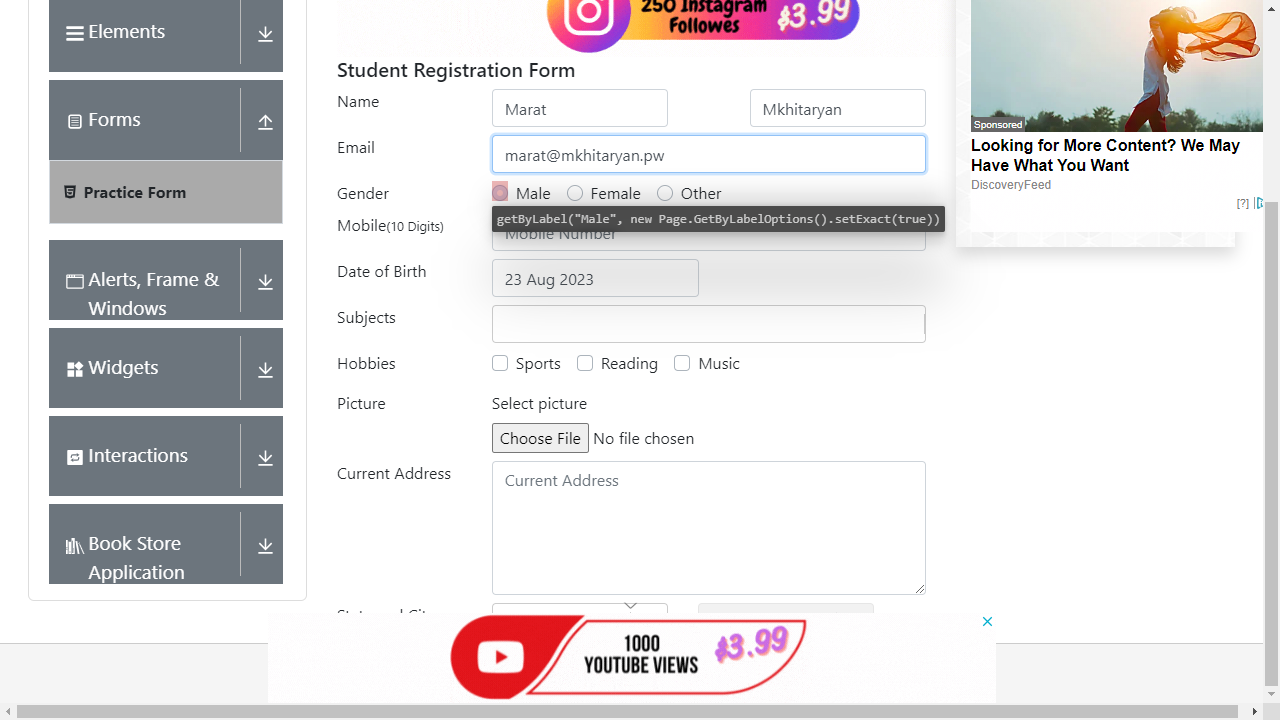
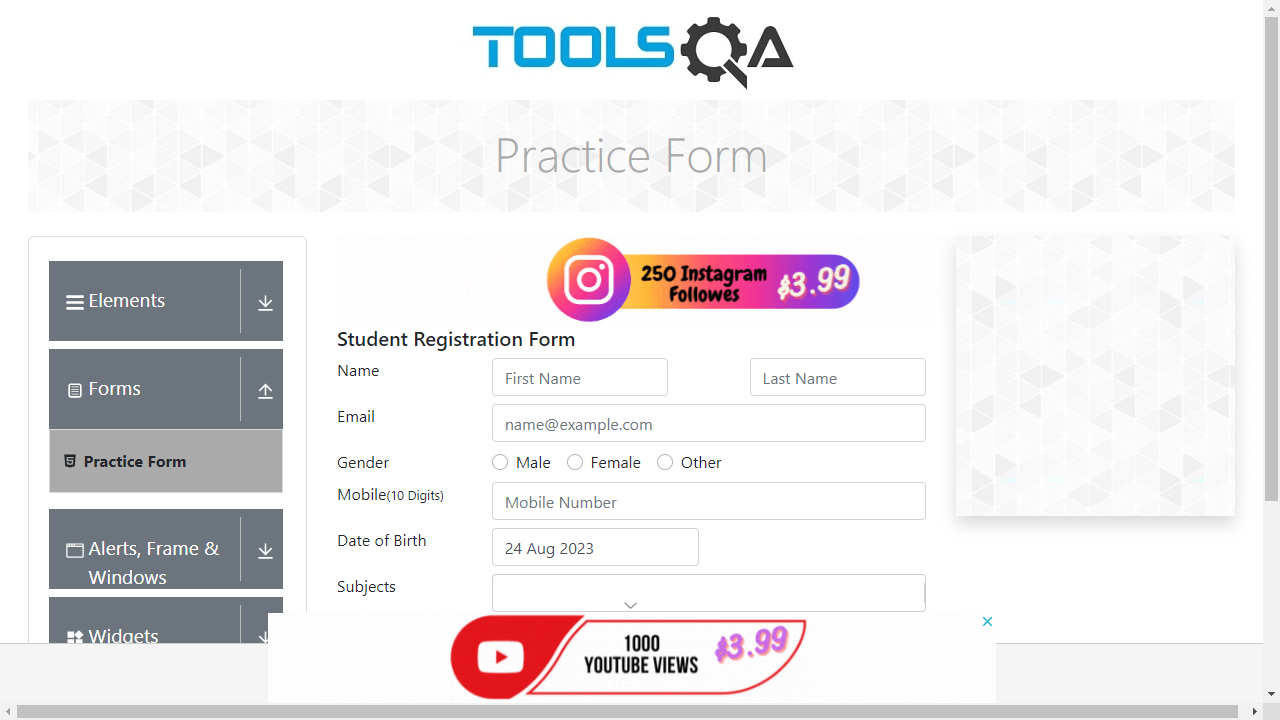
Добавил тесты инпутов

diff --git a/src/main/java/org/example/Main.java b/src/main/java/org/example/Main.java
@@ -1,6 +1,8 @@
 package org.example;
 
 import com.microsoft.playwright.*;
+
+import java.lang.annotation.ElementType;
 import java.nio.file.Paths;
 
 
@@ -11,15 +13,24 @@ public class Main {
             Page page = browser.newPage();
             page.navigate("https://demoqa.com/automation-practice-form");
 
-            page.getByPlaceholder("First Name").fill("Marat");
-            page.getByPlaceholder("Last Name").fill("Mkhitaryan");
-            page.getByPlaceholder("name@example.com").fill("marat@mkhitaryan.pw");
+            Object borderColor = null;
+            for (Locator element : page.locator("input").all()) {
+                // getComputedStyle(document.querySelector("#userEmail")).getPropertyValue("border-color")
+                // String ElementType = element.getAttribute("type");
 
-            page.getByText("Male", new Page.GetByTextOptions().setExact(true)).click();
+                borderColor = element.first().evaluate("el => getComputedStyle(el).getPropertyValue(\"border-color\")");
+                String test = (String) borderColor;
 
-
-
-
+                switch (test) {
+                    case ("rgb(40, 167, 69)"):
+                        System.out.println("Gut");
+                    case ("rgb(220, 53, 69)"):
+                        System.out.println("Bad");
+                    case ("rgb(51, 51, 51)"):
+                        System.out.println("Neutral");
+                }
+            }
+                
             page.screenshot(new Page.ScreenshotOptions().setPath(Paths.get("example.png")));
         }
     }
